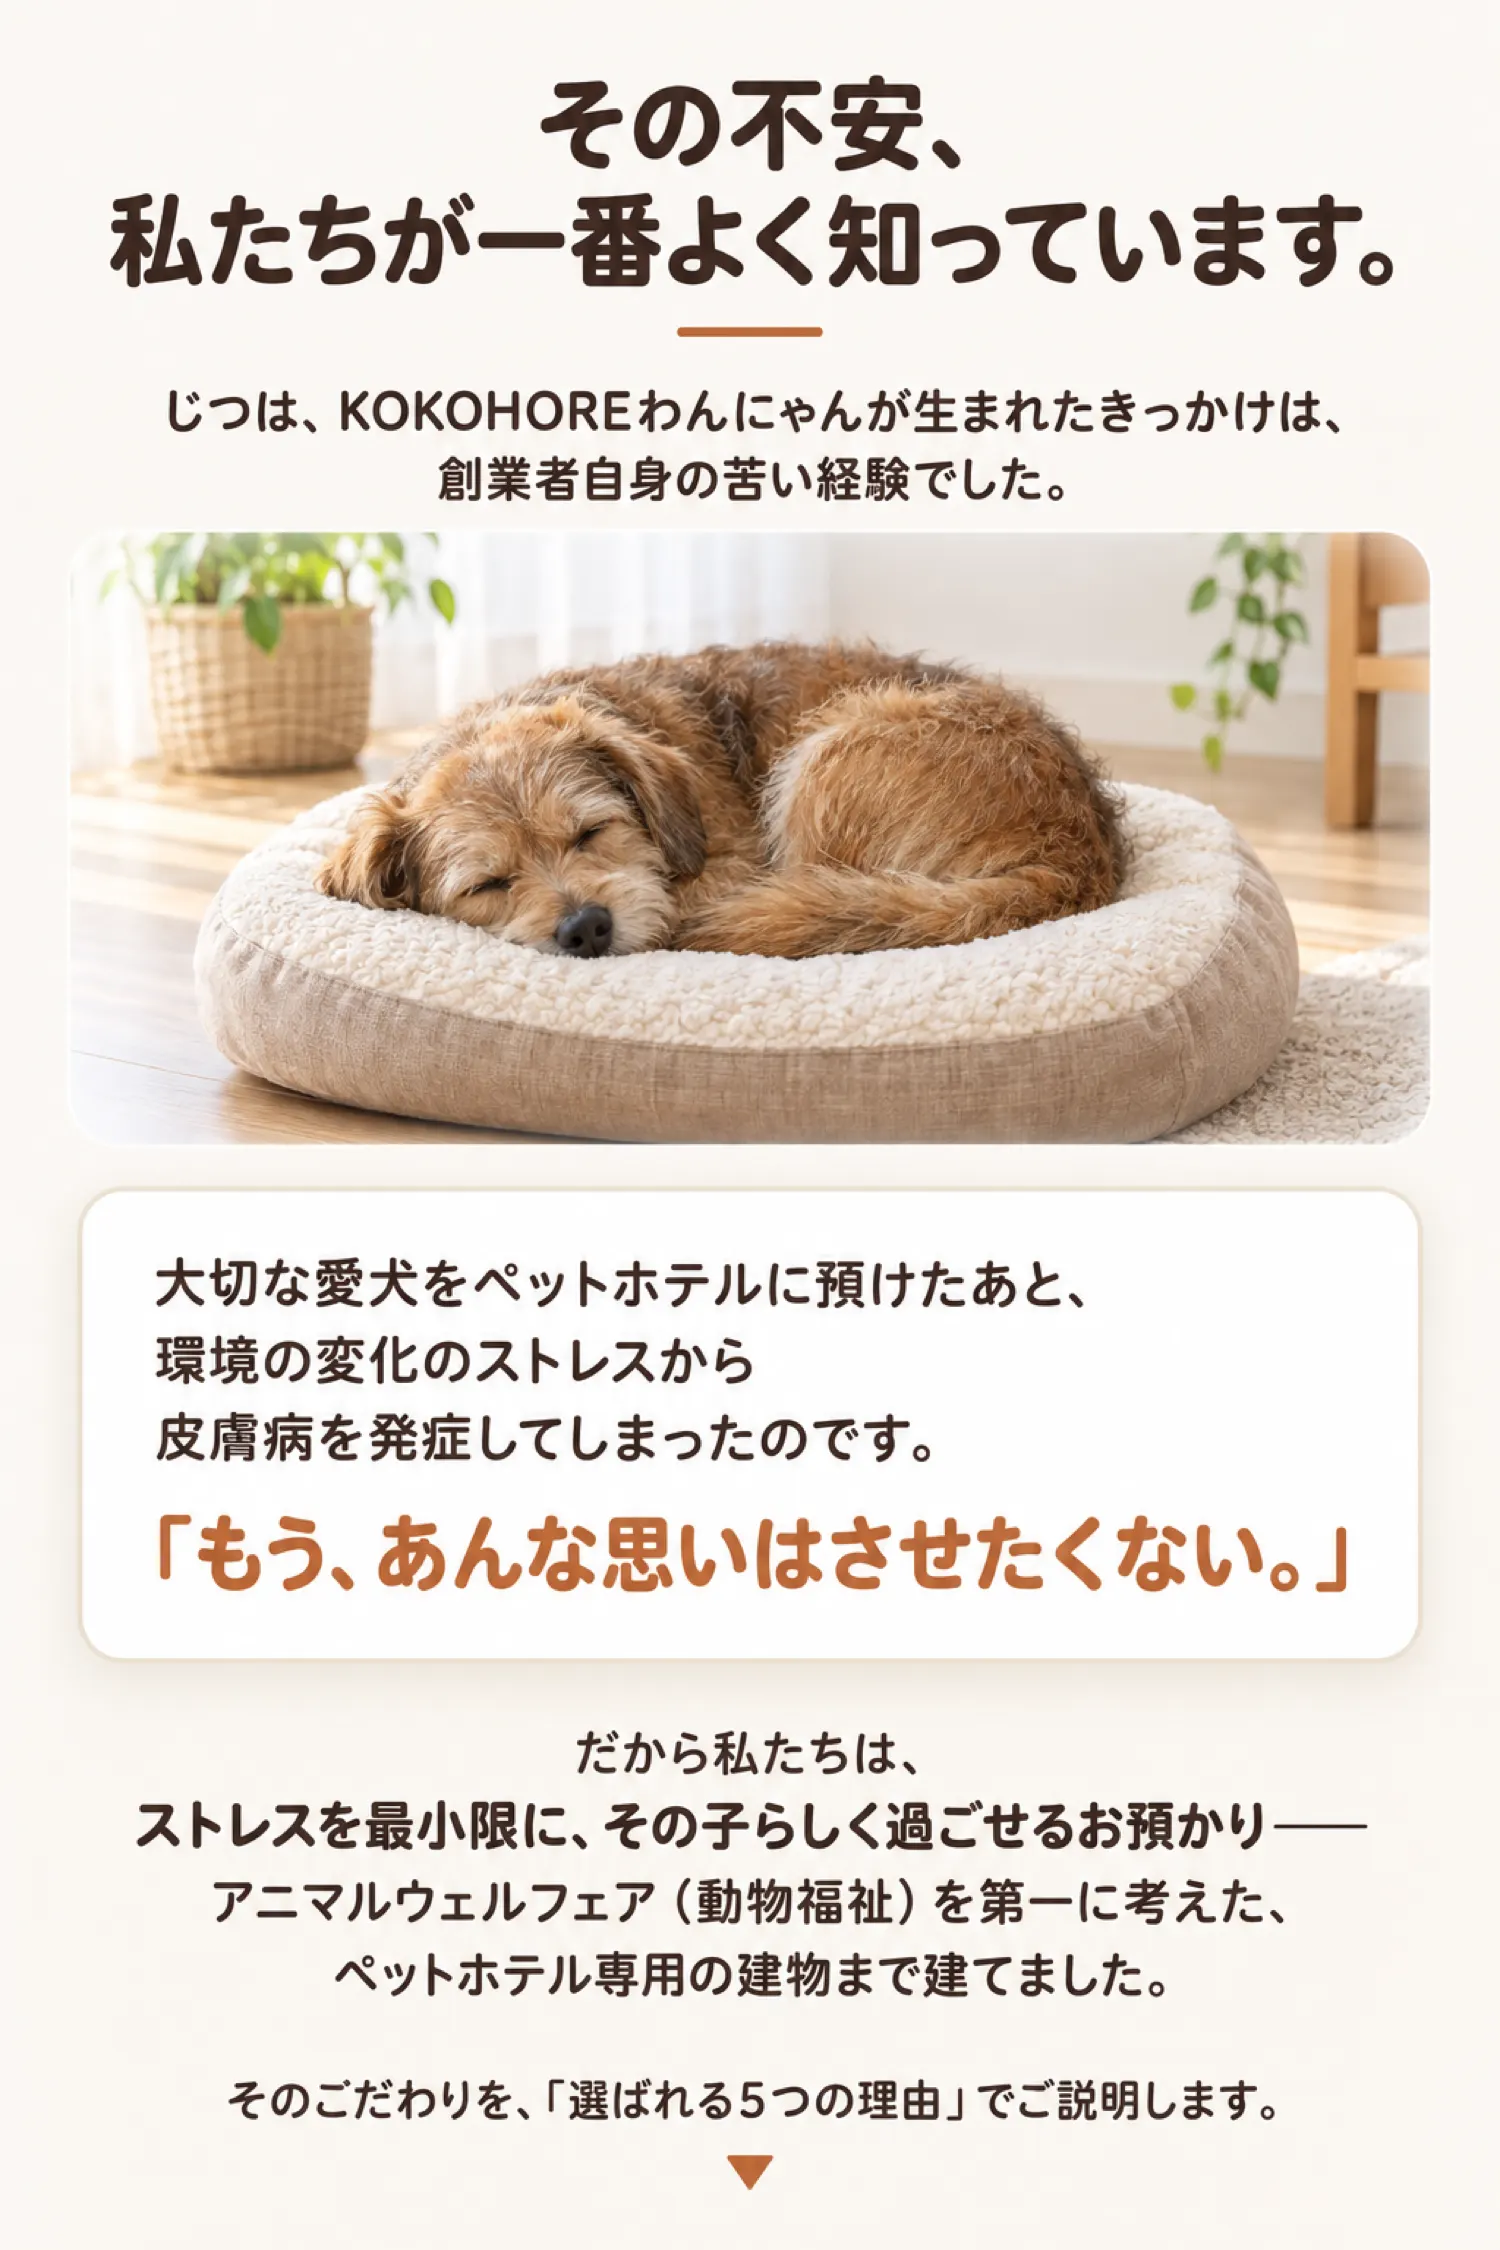
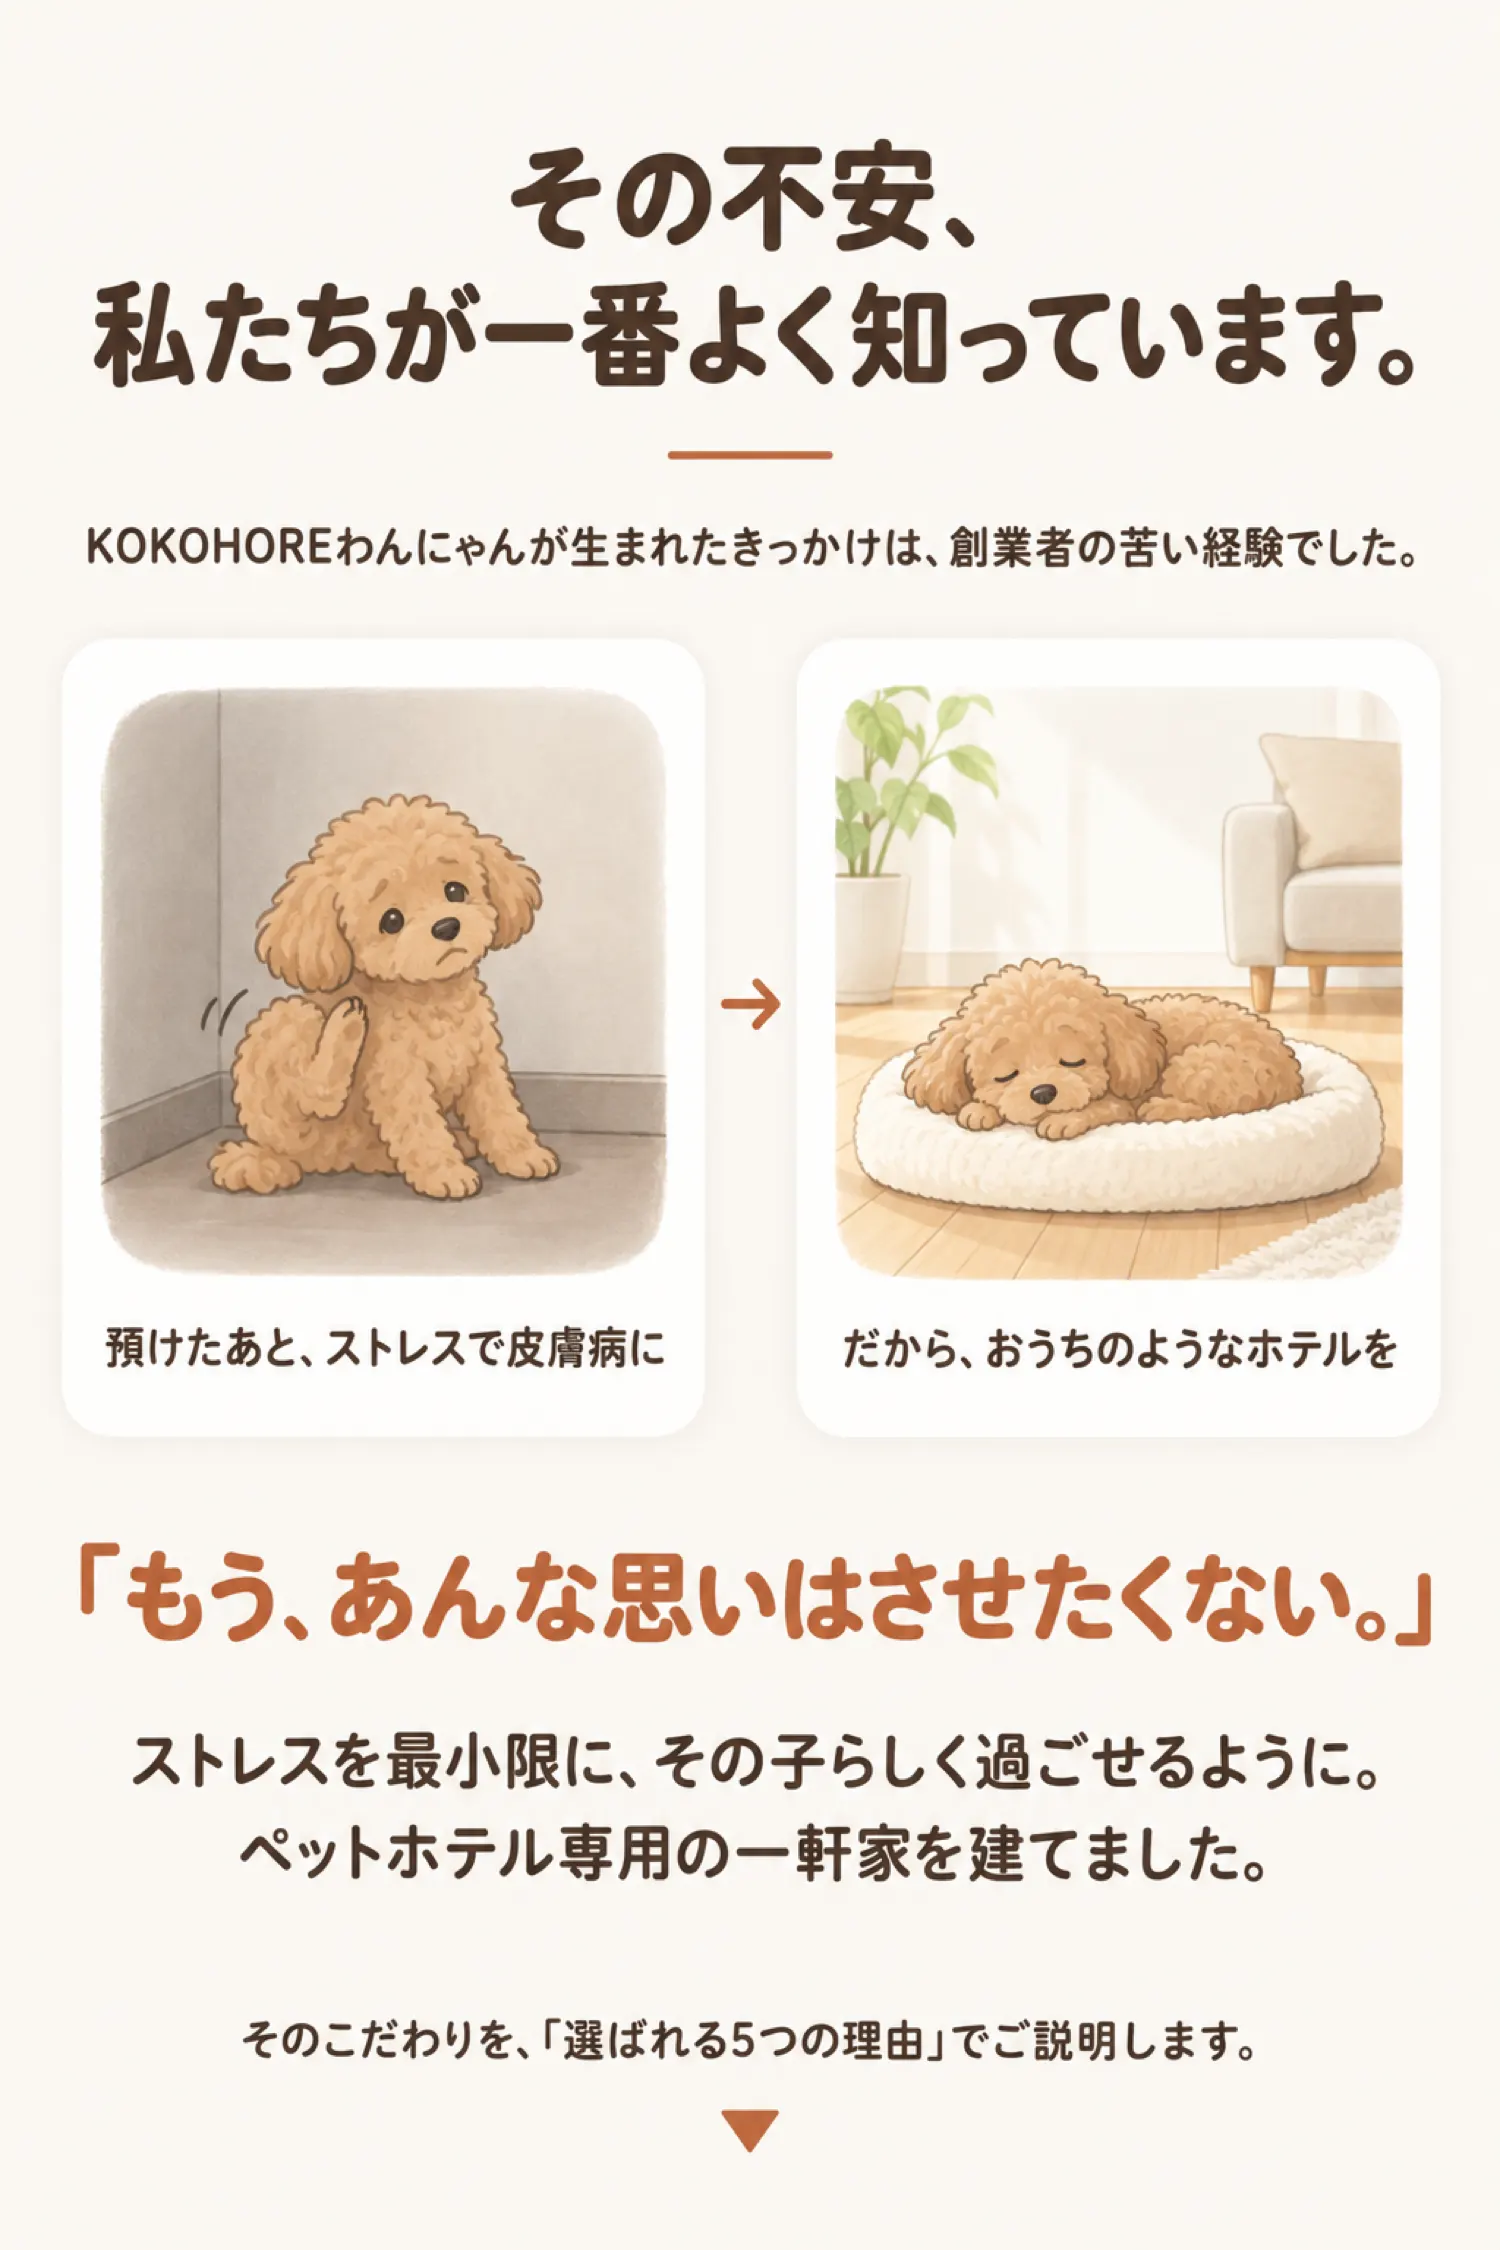
update

diff --git a/index.html b/index.html
@@ -90,9 +90,8 @@
       <!-- ▼⑤ その不安、私たちが一番よく知っています。 -->
       <section class="slice">
         <div class="photo-wrap">
-          <img src="img/05-story.webp?v=1" width="1500" height="2250" loading="lazy"
-               alt="その不安、私たちが一番よく知っています。じつは、KOKOHOREわんにゃんが生まれたきっかけは、創業者自身の苦い経験でした。大切な愛犬をペットホテルに預けたあと、環境の変化のストレスから皮膚病を発症してしまったのです。「もう、あんな思いはさせたくない。」だから私たちは、ストレスを最小限に、その子らしく過ごせるお預かり——アニマルウェルフェア（動物福祉）を第一に考えた、ペットホテル専用の建物まで建てました。そのこだわりを「選ばれる5つの理由」でご説明します">
-          <span class="img-note">※写真はイメージです</span>
+          <img src="img/05-story.webp?v=2" width="1500" height="2250" loading="lazy"
+               alt="その不安、私たちが一番よく知っています。KOKOHOREわんにゃんが生まれたきっかけは、創業者の苦い経験でした。預けたあと、ストレスで皮膚病に→だから、おうちのようなホテルを。「もう、あんな思いはさせたくない。」ストレスを最小限に、その子らしく過ごせるように。ペットホテル専用の一軒家を建てました。そのこだわりを「選ばれる5つの理由」でご説明します">
         </div>
       </section>
 
